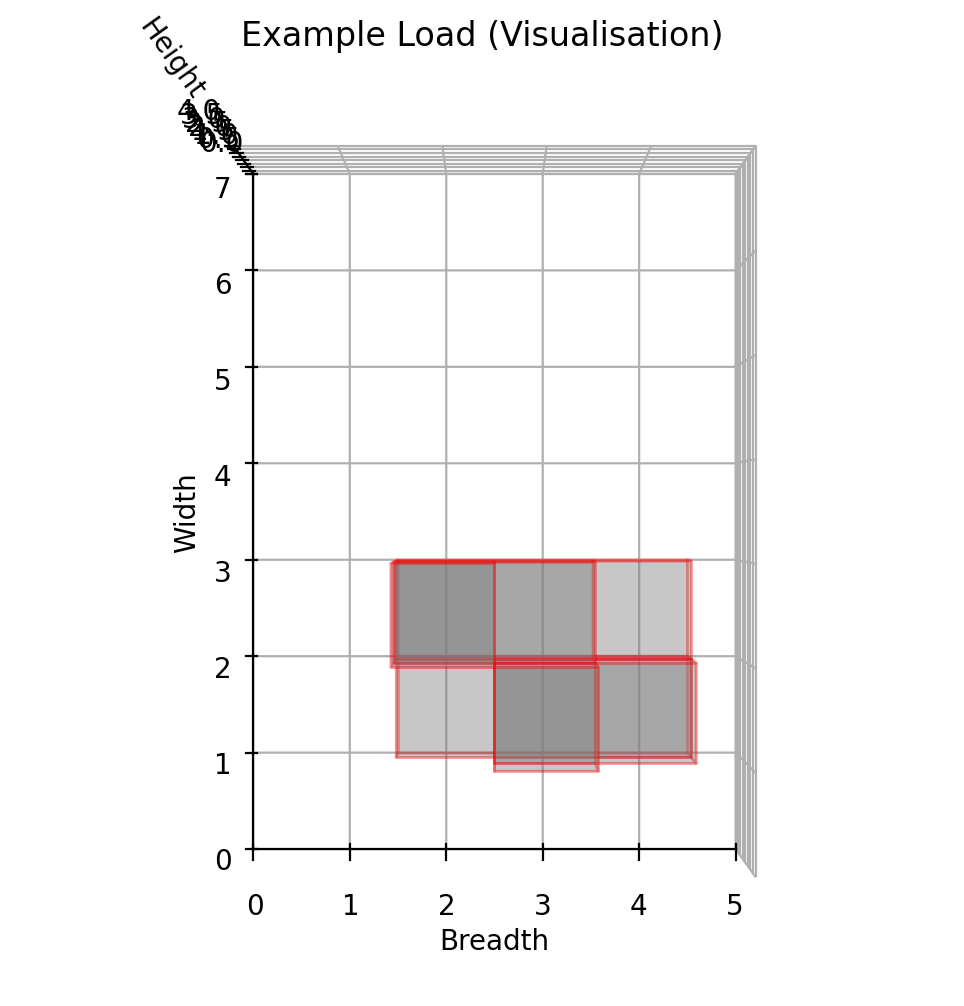
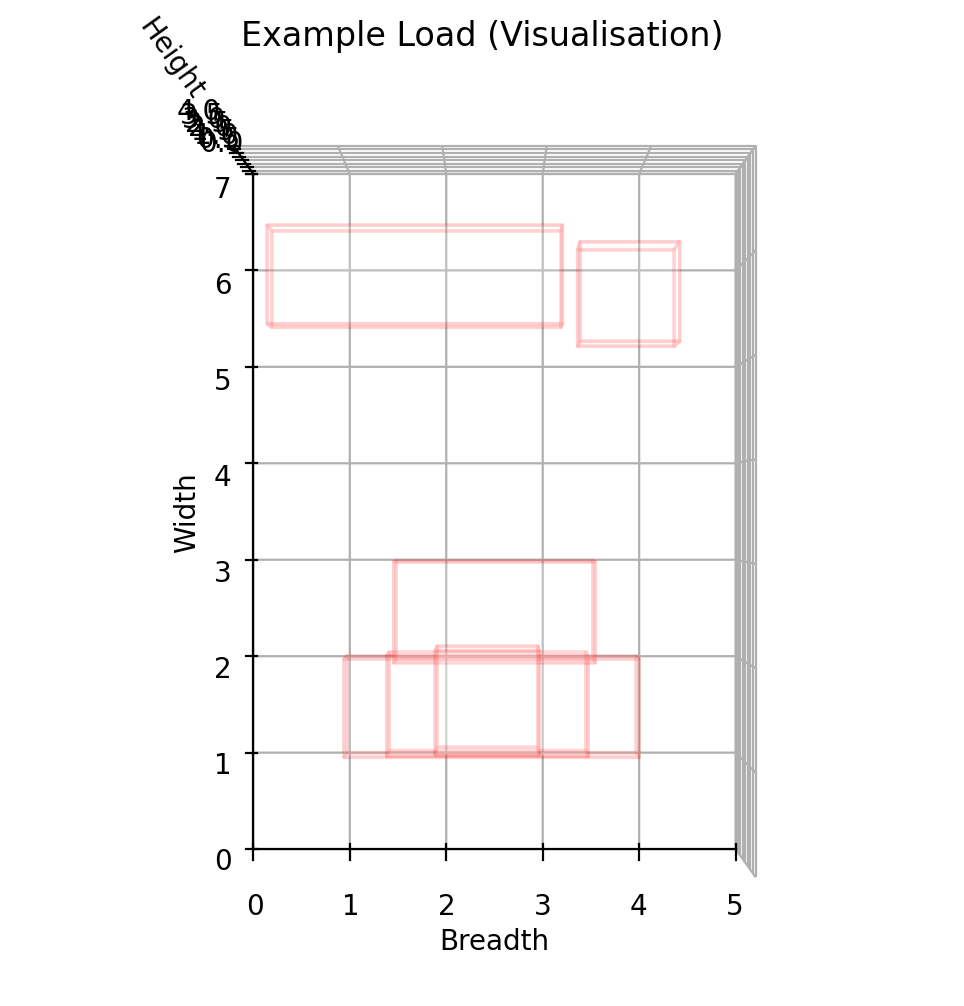
Collisions, Snapping (1)
Collisions and minor snapping when pkg moving

Changed region(s): [[0.3423, 0.5547, 0.7469, 0.7704], [0.249, 0.2157, 0.7158, 0.3698]]

diff --git a/exec.py b/exec.py
@@ -46,7 +46,7 @@ def init_plt(visual:dict):
         ax.set_title(visual.get('label_title', 'Container Visualization'))
         toolbar.pan(False)
         toolbar.zoom(False)
-        toolbar.mode = None
+        #   
         return fig, ax, toolbar
 
 class Unique_ID_Enforcer():
@@ -169,13 +169,23 @@ class Container():
 class Package():
     _C_FACES = CUBE_FACES
     d_weight = 0.0  # default weight
-    d_FaceColors = ['grey'] * 6  # default face colors
-    d_LineWidth = 1  # default line width
+    d_FaceColors = ['white'] * 6  # default face colors
+    # no facecolor
+    f_FaceColors = ['green', 'cyan', 'cyan', 'cyan', 'cyan', 'cyan']   # edge color on focus
+    p_FaceColors = ['green', 'cyan', 'cyan', 'cyan', 'cyan', 'cyan'] * 6  # edge color on pick
+    d_LineWidth = 1.3  # default line width
+    h_LineWidth = 2.5  # line width on hover
+    f_LineWidth = 2.5  # line width on focus
+    p_LineWidth = 2.5  # line width on pick
     d_EdgeColors = 'r'  # default edge colors
-    h_EdgeColors = 'y'  # edge color on hover
+    h_EdgeColors = 'lime'  # edge color on hover
     f_EdgeColors = 'g'  # edge color on focus
     p_EdgeColors = 'k'  # edge color on pick
-    d_Alpha = 0.25  # default alpha
+    d_Alpha = 0.12  # default alpha
+    h_Alpha = 0.33  # transparency on hover
+    f_Alpha = 0.80  # transparency on focus
+    p_Alpha = 0.80  # transparency on pick
+    posSnap = config['visual'].get('snap_behaviour', {}).get('pkg_move', 2)
     def __init__(self, data:dict):
         self.Package_ID = uid_e.test("Package_ID",data)
         self.Package_Type = data.get("Package_Type", ntype_g.new())
@@ -240,16 +250,31 @@ class Package():
             return 0
         return 0
 
-    def _update_edgecolor(self, state:str):
+    def _update_costume(self, state:str):
         match state:
             case "hover":
                 self.polygon.set_edgecolor(self.h_EdgeColors)
+                self.polygon.set_facecolor(self.FaceColors)
+                self.polygon.set_linewidth(self.h_LineWidth)
+                self.polygon.set_alpha(self.h_Alpha)
             case "focus":
                 self.polygon.set_edgecolor(self.f_EdgeColors)
+                self.polygon.set_facecolor(self.f_FaceColors)
+                self.polygon.set_linewidth(self.f_LineWidth)
+                self.polygon.set_alpha(self.f_Alpha)
             case "pick":
                 self.polygon.set_edgecolor(self.p_EdgeColors)
+                self.polygon.set_facecolor(self.p_FaceColors)
+                self.polygon.set_linewidth(self.p_LineWidth)
+                self.polygon.set_alpha(self.p_Alpha)
             case _:
-                self.polygon.set_edgecolor(self.EdgeColors)
+                self._reset_costume()
+                
+    def _reset_costume(self):
+        self.polygon.set_edgecolor(self.EdgeColors)
+        self.polygon.set_facecolor(self.FaceColors)
+        self.polygon.set_linewidth(self.LineWidth)
+        self.polygon.set_alpha(self.Alpha)
 
     def _init_polygon(self):
         self.polygon = Poly3DCollection(
@@ -263,10 +288,16 @@ class Package():
         self.polygon.set_verts(
                     [self.pos3d[face] for face in self._C_FACES]
                 )
+    
+    def _moveTo(self, posx:float=None, posy:float=None, posz:float=None):
+        if posx is not None and 0 < posx <= container.dimLength-self.dimLength : self.posx = round(posx, self.posSnap) 
+        if posy is not None and 0 < posy <= container.dimWidth-self.dimWidth : self.posy = round(posy, self.posSnap) 
+        if posz is not None and 0 < posz <= container.dimHeight-self.dimHeight : self.posz = round(posz, self.posSnap)
+        self.update_pos()
 
     def _render(self, fig, ax):
         ax.add_collection3d(self.polygon)
-        self._update_edgecolor("default")
+        self._update_costume("default")
 
     def _export(self):
         return {
@@ -290,16 +321,16 @@ class CursorHelper():
 
         (self.probeline,) = ax.plot(
             [0, 0], [0, 0], [0, ax.get_zlim()[1]],
-            color="black", linewidth=1.5
+            color="black", linewidth=1.3
             ) 
 
     def _update(self):
         for pkg in container.Packages:
-            pkg._update_edgecolor("default")
+            pkg._update_costume("default")
         for pkg in self.hoverpkg:
-            pkg._update_edgecolor("hover")
+            pkg._update_costume("hover")
         if self.focuspkg:
-            self.focuspkg._update_edgecolor("focus")
+            self.focuspkg._update_costume("focus")
         fig.canvas.draw_idle()
 
     def _mpl_move(self, event):
@@ -343,16 +374,14 @@ class CursorHelper():
         elif self.state == "focus":
             # Move focused package
             if self.focuspkg:
-                self.focuspkg.posx = self.posx
-                self.focuspkg.posy = self.posy
-                self.focuspkg.update_pos()
+                self.focuspkg._moveTo(posx=self.posx, posy=self.posy)
                 self._update()
 
     def _mpl_click(self, event):
         if not event.inaxes:
             return
         elif self.focuspkg is not None and self.state == "hover" and event.button==3:
-            self.focuspkg._update_edgecolor("pick")
+            self.focuspkg._update_costume("pick")
             self.state = "focus"
             self._update()
     
@@ -369,7 +398,7 @@ class CursorHelper():
             case "hover":
                 zposes = {pkg.posz: pkg for pkg in self.hoverpkg}
                 zposes = dict(sorted(zposes.items()))
-                print(zposes)
+
                 if event.button == 'up':  # bring self.posz to the next highest value on zposes.
                     for z, pkg in zposes.items():
                         if z > self.posz and z != self.posz:
@@ -384,11 +413,11 @@ class CursorHelper():
                             self._update(); return
             case "focus":
                 if event.button == 'up' and self.posz + 0.1 <= container.dimHeight - self.focuspkg.dimHeight:
-                    self.posz += 0.1; self.focuspkg.posz += 0.1
+                    self.posz += 0.1; self.focuspkg.moveTo(posz=self.posz)
                     self.focuspkg.update_pos()
                     self._update(); return
                 elif event.button == 'down' and self.posz - 0.1 >= 0:
-                    self.posz -= 0.1; self.focuspkg.posz -= 0.1
+                    self.posz -= 0.1; self.focuspkg.moveTo(posz=self.posz)
                     self.focuspkg.update_pos()
                     self._update(); return
 
@@ -401,9 +430,11 @@ def mpl_onkey(event):
             print("Info: Saving new manifest...")
             container.export_tofile()
             print("Info: Saving Load Views... ", end='')
+            # prepare a new view
             ax.xaxis.pane.set_visible(False)
             ax.yaxis.pane.set_visible(False)
             ax.zaxis.pane.set_visible(False)
+            cur.probeline.set_visible(False)
             for name, view in {
                 #name: (elev, azim, proj)
                 "iso":   (30, -60, "ortho"),
@@ -431,6 +462,7 @@ def mpl_onkey(event):
             ax.xaxis.pane.set_visible(True)
             ax.yaxis.pane.set_visible(True)
             ax.zaxis.pane.set_visible(True)
+            cur.probeline.set_visible(True)
             ax.view_init(30, -60)
             fig.canvas.draw_idle()
 
